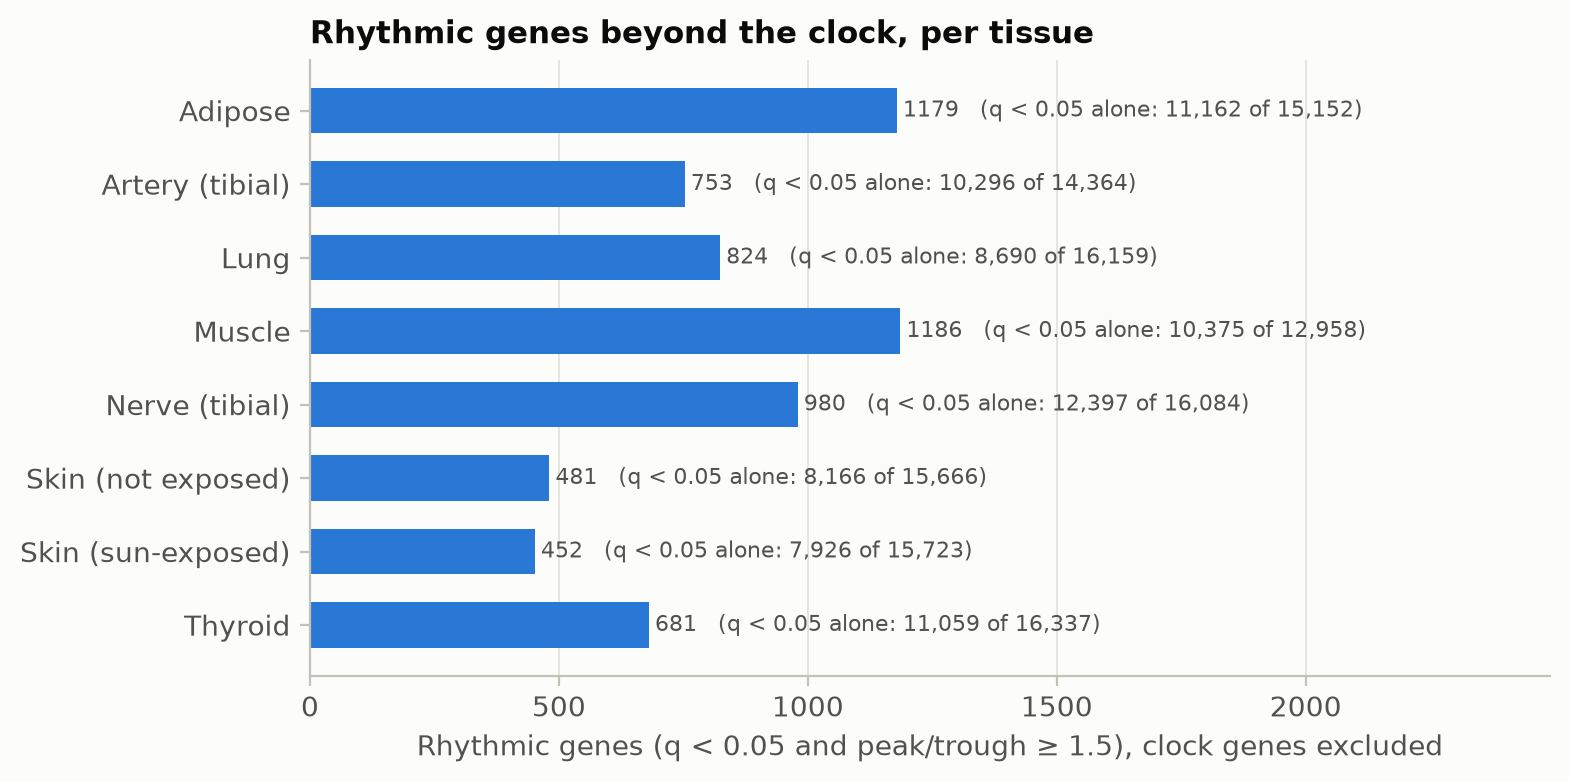
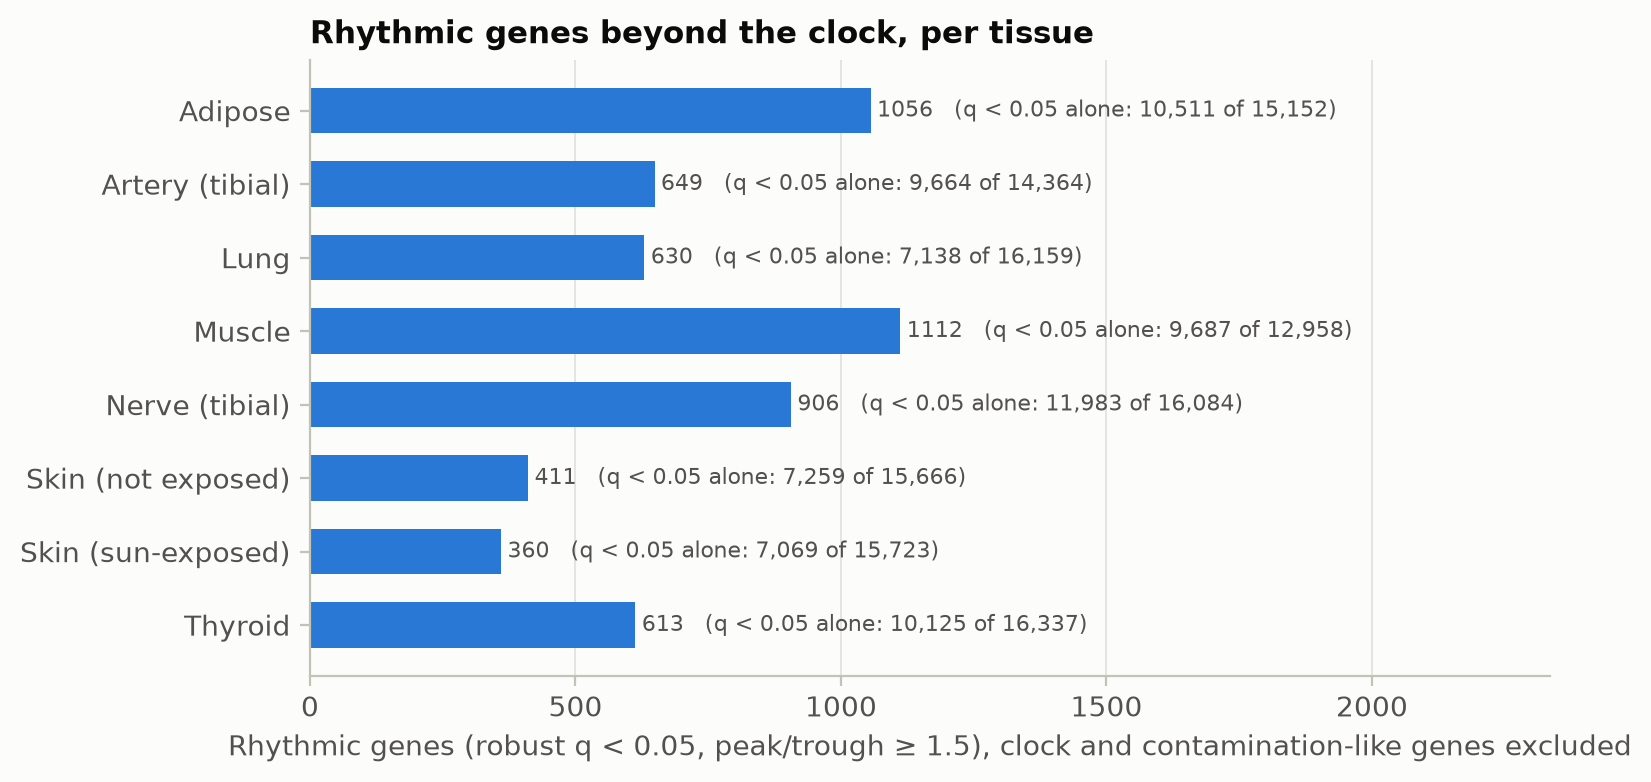
Use the robust step 10 results in the presentation figures
Figures 6-9, 11 and 12 now read results/step10/gtex/robust_ref12{,_perm0}:
robust rhythm and differential-rhythm q-values, the 'strong' gene flag
(contamination-like genes excluded), and figure 6 shows all 8 tissues.

diff --git a/scripts/presentation_figures.py b/scripts/presentation_figures.py
@@ -6,7 +6,7 @@ one tissue's counts for the gene profiles).
 
 Sources: results/gtex/exp14_shared_phase (phase errors), exp13*/exp17b (bootstrap effects),
 results/step9/sim{,_nolambda} (lambda bias), results/step10/sim (GLM validation),
-results/step10/gtex/shared_ref12{,_perm0} (GLM on GTEx), data/gtex_v8/tissues (counts).
+results/step10/gtex/robust_ref12{,_perm0} (GLM on GTEx, robust tests), data/gtex_v8/tissues (counts).
 
 Usage, from the repository root:
     python scripts/presentation_figures.py [--out results/presentation] [--only fig01 fig07 ...]
@@ -63,7 +63,7 @@ def circ_mean_h(h):
 
 
 def load_glm(tissue, cols=None, perm=False):
-    sub = "shared_ref12_perm0" if perm else "shared_ref12"
+    sub = "robust_ref12_perm0" if perm else "robust_ref12"
     return pd.read_csv(R / "step10" / "gtex" / sub / f"{tissue}.csv.gz", usecols=cols)
 
 
@@ -244,25 +244,29 @@ def fig05_sim_power(out):
 
 
 def fig06_pvalues(out):
-    """GTEx: rhythm p-values with the shared phases and with permuted phases (negative control)."""
-    tis = ["thyroid", "lung", "artery_tibial"]
-    fig, axes = plt.subplots(1, 3, figsize=(11, 3.6), sharey=True)
+    """GTEx: robust rhythm p-values with the shared phases and with permuted phases (negative control)."""
+    fig, axes = plt.subplots(2, 4, figsize=(12, 5.6), sharex=True, sharey=True)
     bins = np.linspace(0, 1, 21)
-    for ax, t in zip(axes, tis):
-        r = load_glm(t, ["p_rhythm"]).p_rhythm.dropna()
-        p = load_glm(t, ["p_rhythm"], perm=True).p_rhythm.dropna()
-        ax.hist(r, bins, density=True, histtype="step", color=C1, lw=2, label="Shared phases")
-        ax.hist(p, bins, density=True, histtype="step", color=C2, lw=2, label="Phases permuted (negative control)")
+    cols = ["p_rhythm_rob", "q_rhythm_rob"]
+    for ax, t in zip(axes.ravel(), TISSUES):
+        r = load_glm(t, cols).dropna(subset=["p_rhythm_rob"])
+        p = load_glm(t, cols, perm=True).dropna(subset=["p_rhythm_rob"])
+        ax.hist(r.p_rhythm_rob, bins, density=True, histtype="step", color=C1, lw=2, label="Shared phases")
+        ax.hist(p.p_rhythm_rob, bins, density=True, histtype="step", color=C2, lw=2,
+                label="Phases permuted (negative control)")
         ax.axhline(1, color=INK, lw=1)
         ax.set_yscale("log")
         ax.set_xlim(0, 1)
-        ax.set_title(SHORT[t])
-        ax.set_xlabel("p-value (rhythm, LRT 2 df)")
-        ax.text(0.97, 0.95, f"p < 0.05: {(r < 0.05).mean():.0%} vs {(p < 0.05).mean():.0%}\n(expected 5%)",
-                transform=ax.transAxes, ha="right", va="top", color=INK, fontsize=9)
-    axes[0].set_ylabel("Density (uniform = 1)")
-    h, lab = axes[0].get_legend_handles_labels()
-    fig.legend(h, lab, loc="upper center", ncol=2, bbox_to_anchor=(0.5, 1.08))
+        ax.set_title(SHORT[t], fontsize=10)
+        ax.text(0.97, 0.95, f"p < 0.05: {(r.p_rhythm_rob < 0.05).mean():.0%} vs {(p.p_rhythm_rob < 0.05).mean():.0%}\n"
+                f"q < 0.05: {int((r.q_rhythm_rob < 0.05).sum()):,} vs {int((p.q_rhythm_rob < 0.05).sum())} genes",
+                transform=ax.transAxes, ha="right", va="top", color=INK, fontsize=8)
+    for ax in axes[1]:
+        ax.set_xlabel("p-value (rhythm, robust Wald 2 df)")
+    for ax in axes[:, 0]:
+        ax.set_ylabel("Density (uniform = 1)")
+    h, lab = axes[0, 0].get_legend_handles_labels()
+    fig.legend(h, lab, loc="upper center", ncol=2, bbox_to_anchor=(0.5, 1.05))
     fig.tight_layout()
     save(fig, out, "fig06_pvalues_real_vs_permuted")
 
@@ -283,7 +287,7 @@ def fig07_clock_peaks(out):
         y = len(genes) - 1 - i
         s = d[d.gene == g]
         x = order[g] + wrap_h(s.phase_avg_h - order[g])
-        sig = (s.q_rhythm < 0.05).to_numpy()
+        sig = (s.q_rhythm_rob < 0.05).to_numpy()
         size = 12 + 220 * s.amp_avg.clip(upper=0.8).to_numpy()
         ax.scatter(x[sig], np.full(sig.sum(), y), s=size[sig], color=MUTED, alpha=0.6, edgecolor=SURF, linewidth=1, zorder=2)
         ax.scatter(x[~sig], np.full((~sig).sum(), y), s=size[~sig], facecolor="none", edgecolor=MUTED, linewidth=1, zorder=2)
@@ -302,17 +306,18 @@ def fig07_clock_peaks(out):
     save(fig, out, "fig07_clock_peak_times")
 
 
-def rhythmic(d, amp_min=0.2):
-    return d[(d.q_rhythm < 0.05) & (d.amp_avg >= amp_min) & (~d.is_clock)]
+def rhythmic(d):
+    """'strong' genes of gtex_gene_rhythms.py: q_rhythm_rob < 0.05, amp_avg >= 0.2, not spiky, not clock."""
+    return d[d.strong.astype(bool)]
 
 
 def fig08_counts(out):
     """GTEx: number of rhythmic non-clock genes per tissue."""
-    cols = ["gene", "q_rhythm", "amp_avg", "phase_avg_h", "is_clock"]
+    cols = ["gene", "q_rhythm_rob", "amp_avg", "phase_avg_h", "is_clock", "strong"]
     rows = []
     for t in TISSUES:
         d = load_glm(t, cols)
-        rows.append(dict(tissue=t, n=len(d), q05=int((d.q_rhythm < 0.05).sum()), strong=len(rhythmic(d))))
+        rows.append(dict(tissue=t, n=len(d), q05=int((d.q_rhythm_rob < 0.05).sum()), strong=len(rhythmic(d))))
     c = pd.DataFrame(rows).set_index("tissue").loc[TISSUES[::-1]]
     fig, ax = plt.subplots(figsize=(8, 4))
     y = np.arange(len(c))
@@ -322,14 +327,14 @@ def fig08_counts(out):
     ax.set_yticks(y, [SHORT[t] for t in c.index])
     ax.grid(axis="y", visible=False)
     ax.set_xlim(0, c.strong.max() * 2.1)
-    ax.set_xlabel("Rhythmic genes (q < 0.05 and peak/trough ≥ 1.5), clock genes excluded")
+    ax.set_xlabel("Rhythmic genes (robust q < 0.05, peak/trough ≥ 1.5), clock and contamination-like genes excluded")
     ax.set_title("Rhythmic genes beyond the clock, per tissue")
     save(fig, out, "fig08_rhythmic_counts")
 
 
 def fig09_peak_distribution(out):
     """GTEx: peak times of the rhythmic non-clock genes, with the DBP and ARNTL peaks as landmarks."""
-    cols = ["gene", "q_rhythm", "amp_avg", "phase_avg_h", "is_clock"]
+    cols = ["gene", "q_rhythm_rob", "amp_avg", "phase_avg_h", "is_clock", "strong"]
     fig, axes = plt.subplots(2, 4, figsize=(12, 5.2), sharex=True)
     for ax, t in zip(axes.ravel(), TISSUES):
         d = load_glm(t, cols)
@@ -348,7 +353,8 @@ def fig09_peak_distribution(out):
         ax.set_xlabel("Peak time (h, CHIRAL frame)")
     for ax in axes[:, 0]:
         ax.set_ylabel("Genes")
-    fig.suptitle("Peak times of rhythmic non-clock genes (q < 0.05, peak/trough ≥ 1.5)", x=0.01, ha="left")
+    fig.suptitle("Peak times of rhythmic non-clock genes (robust q < 0.05, peak/trough ≥ 1.5, contamination-like excluded)",
+                 x=0.01, ha="left")
     fig.tight_layout()
     save(fig, out, "fig09_peak_time_distribution")
 
@@ -362,7 +368,7 @@ def glm_clock_effects():
             for _, r in g.iterrows():
                 rows.append(dict(tissue=t, k=k, gene=r.gene, amp=r.amp, lar=r[f"log_amp_ratio_{k}"],
                                  lar_se=r[f"log_amp_ratio_se_{k}"], shift=r[f"phase_shift_h_{k}"],
-                                 q=r[f"q_diffrhythm_{k}"]))
+                                 q=r[f"q_diffrhythm_rob_{k}"]))
     return pd.DataFrame(rows)
 
 
@@ -470,7 +476,7 @@ def fig12_profiles(out, tissue="thyroid"):
             ax.errorbar(mid + off, mu, yerr=se, fmt="o", ms=5, color=col, mec=SURF, mew=1, elinewidth=1.2, zorder=3)
             if not by_group:
                 curve = r.amp_avg * np.cos(tt / H - r.phase_avg_h / H)
-                note = f"peak/trough ×{np.exp(2 * r.amp_avg):.2f}, peak at {r.phase_avg_h % 24:.1f} h, q = {r.q_rhythm:.1g}"
+                note = f"peak/trough ×{np.exp(2 * r.amp_avg):.2f}, peak at {r.phase_avg_h % 24:.1f} h, q = {r.q_rhythm_rob:.1g}"
             else:
                 b, c = r.b, r.c
                 if lab.startswith("Ventilator"):
@@ -478,7 +484,7 @@ def fig12_profiles(out, tissue="thyroid"):
                 curve = b * np.cos(tt / H) + c * np.sin(tt / H)
             ax.plot(tt, curve / np.log(2), color=col, lw=2, zorder=2, label=lab)
         if by_group:
-            lar, sh, q = r["log_amp_ratio_hardy[0]"], r["phase_shift_h_hardy[0]"], r["q_diffrhythm_hardy[0]"]
+            lar, sh, q = r["log_amp_ratio_hardy[0]"], r["phase_shift_h_hardy[0]"], r["q_diffrhythm_rob_hardy[0]"]
             note = f"Hardy 0: amplitude ×{np.exp(lar):.2f}, shift {sh:+.1f} h, q = {q:.1g}"
             ax.legend(loc="lower left", fontsize=8)
         ax.text(0.03, 0.97, note, transform=ax.transAxes, va="top", color=INK, fontsize=8)
